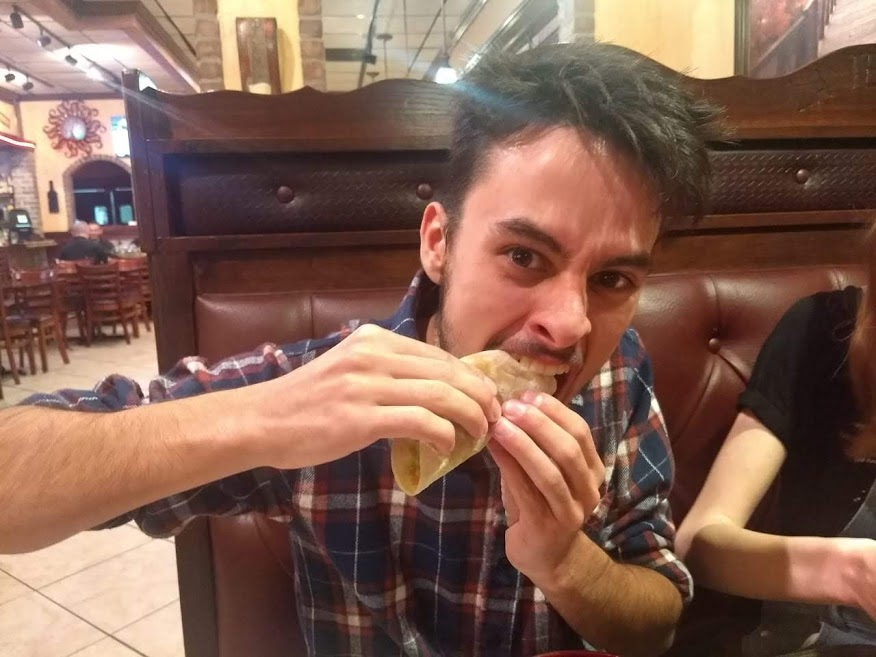
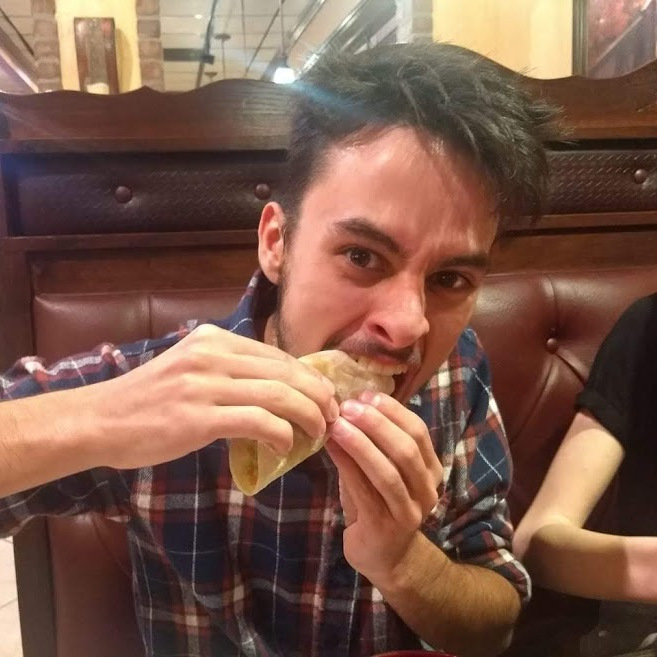
sparkles: added github link, and changed pic

diff --git a/src/components/bio.js b/src/components/bio.js
@@ -8,6 +8,9 @@
 import React from "react"
 import { useStaticQuery, graphql } from "gatsby"
 import Image from "gatsby-image"
+import { faGithub } from '@fortawesome/free-brands-svg-icons'
+import { FontAwesomeIcon } from '@fortawesome/react-fontawesome'
+
 
 import { rhythm } from "../utils/typography"
 
@@ -16,7 +19,7 @@ const Bio = () => {
     query BioQuery {
       avatar: file(absolutePath: { regex: "/profile-pic.jpg/" }) {
         childImageSharp {
-          fixed(width: 150, height: 100) {
+          fixed(width: 50, height: 50) {
             ...GatsbyImageSharpFixed
           }
         }
@@ -32,34 +35,55 @@ const Bio = () => {
     }
   `)
 
+  const iconStyle = {
+    color:"black",
+    boxShadow:"none",
+  }
+
   const { author, social } = data.site.siteMetadata
   return (
-    <div
-      style={{
-        display: `flex`,
-        marginBottom: rhythm(2.5),
-      }}
-    >
-      <Image
-        fixed={data.avatar.childImageSharp.fixed}
-        alt={author}
+    <div>
+      <div
         style={{
-          marginRight: rhythm(1 / 2),
-          marginBottom: 0,
-          minWidth: 50,
-          borderRadius: `100%`,
+          display: `flex`,
+          marginBottom: rhythm(0),
         }}
-        imgStyle={{
-          borderRadius: `50%`,
+      >
+        <Image
+          fixed={data.avatar.childImageSharp.fixed}
+          alt={author}
+          style={{
+            marginRight: rhythm(1 / 2),
+            marginBottom: 0,
+            minWidth: 50,
+            borderRadius: `100%`,
+          }}
+          imgStyle={{
+            borderRadius: `50%`,
+          }}
+        />
+        <p>
+          ¡Hola! Soy <strong>{author}</strong>, desarrollador junior argentino.
+          {` `}
+          <a href={`https://twitter.com/${social.twitter}`}>
+            ¿Y si me seguís en Twitter?
+          </a>
+        </p>
+      </div>
+      <div
+        style={{
+          display: 'flex',
+          marginBottom: rhythm(1),
         }}
-      />
+      >
       <p>
-        ¡Hola! Soy <strong>{author}</strong>, desarrollador junior argentino.
-        {` `}
-        <a href={`https://twitter.com/${social.twitter}`}>
-          ¿Y si me seguís en Twitter?
+        <a
+          style={iconStyle}
+          href='https://github.com/amuroBosetti'>
+            <FontAwesomeIcon icon={ faGithub } />
         </a>
       </p>
+      </div>
     </div>
   )
 }

diff --git a/content/blog/20-2-20/index.md b/content/blog/20-2-20/index.md
@@ -14,18 +14,18 @@ Que hice para estar aca escribiendo sobre mi experiencia? Empezar a trabajar de 
 
 ## Sobre vos
 
-Que podes esperar vos de este blog? Teniendo en cuenta lo que describi anteriormente, por favor, no mucho. Si se diera el milagro de que decida seguir escribiendo - y que encuentre el tiempo para tal fin - en este sitio quiero volcar todo lo que vengo aprendiendo. No necesariamente tutoriales de JS, sino cosas mas generales, que son comunes a nuestra profesion de devs y a nuestra condicion de seres humanos. No digo que nunca publicare alguna cosa interesante que descubra sobre una tecnologia puntual, pero no sera la media.
+Que podes esperar vos de este blog? Teniendo en cuenta lo que describi anteriormente, por favor, no mucho. Si se diera el milagro de que decida seguir escribiendo, en este sitio quiero volcar todo lo que vengo aprendiendo. No necesariamente tutoriales de JS, sino cosas mas generales, que son comunes a nuestra profesion de devs y a nuestra condicion de seres humanos. No digo que nunca publicare alguna cosa interesante que descubra sobre una tecnologia puntual, pero no sera la media.
 
 Quiero asegurarte, querido internauta, que sos muy importante en este sitio. Que curiosidades tenes, cuales compartimos? Sobre que te gustaria leer?
 
-## De donde vengo
+## Origenes
 
-Bueno, pero dediquemonos un poco al titulo: de donde vengo? En donde estoy ahora? Vengo de una mezcla del salon de clases y los bootcamp de 40 horas de Udemy. Vengo de un par de proyectos interesantes, armados con cinta adhesiva, que tengo ganas de seguir y mejorar. Vengo de busquedas laborales poco serias. No es un mal lugar donde empezar, no?
+Vengo de una mezcla de los salones de la facultad, y de un Bootcamp de Udemy de desarrollo web. Con esa mezcla de cinta adhesiva y lineas de codigo, me fui armando mis proyectitos, mis desarrollos de juguete. De esos programitas me gusta hablar, de todo lo que voy aprendiendo despues de horas de StackOverflow y rascarme la cabeza. No es un mal lugar donde empezar.
 
-## A donde voy
+## Camino
 
-Quien sabe? Me gustan demasiadas cosas para tener un camino muy definido. Ahora, estoy apuntando a conseguir entrevistas en empresas que me interesen en Buenos Aires, mientras sigo con esto, y le dedico sus buenas horas semanales a algunos hobbies que peco de dejar tirados de vez en cuando.
+Quien sabe? Creo que no soy el unico al que le pasa que le gusten demasiadas cosas como para tener un camino definido, mas que nada habiendo tantas cosas que ignoro. Ahora, estoy apuntando a conseguir entrevistas en empresas que me interesen en Buenos Aires, mientras sigo con esto, y le dedico un poco de tiempo a hobbies que admito haber dejado tirados un poco. Solo un poquito
 
 ---
 
-Los convenci de quedarse? Estan interesados en compartir las peripecias de un desarrollador trainee/junior buscando trabajo en Argentina? Quedense, pues no puedo prometerles cuando, ni como, pero nuevas publicaciones van a llegar.
+Te convenci de quedarte? Quizas no sea la publicacion mas regular del mundo, pero prometo que algo mas llegara. Si estas interesado, mientras tanto, podes seguirme en mis diversas redes mas abajo. Muchas gracias, y hasta la proxima!
